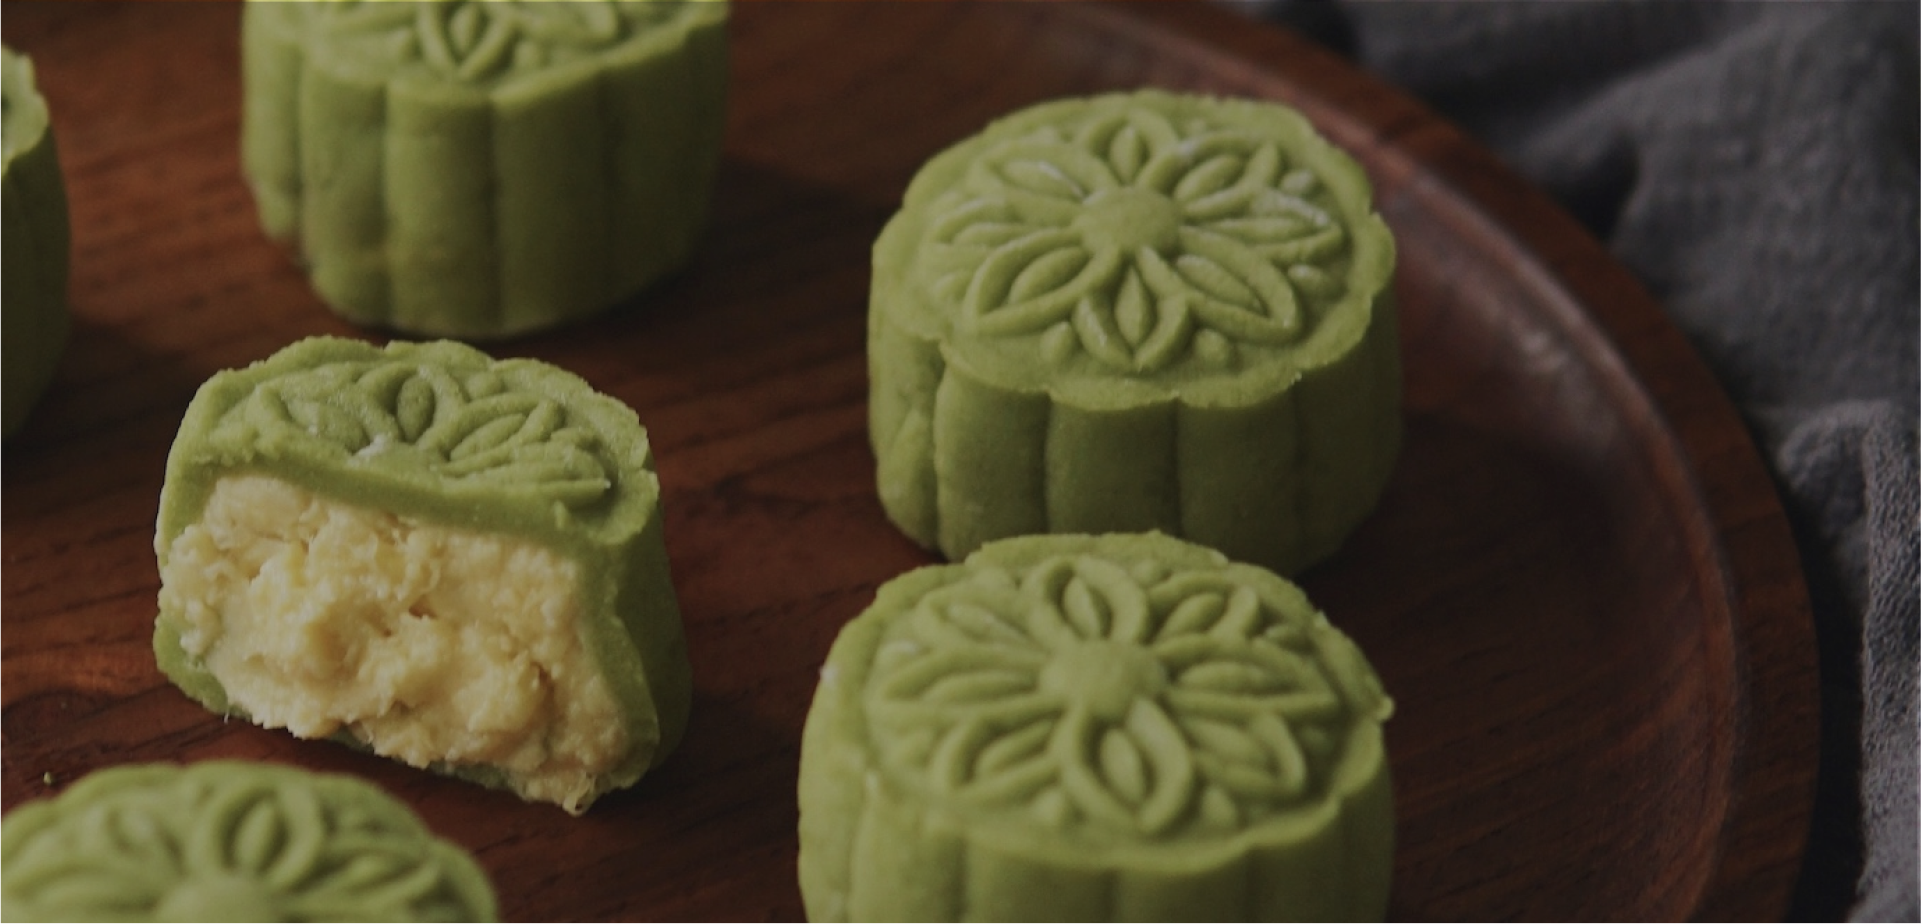
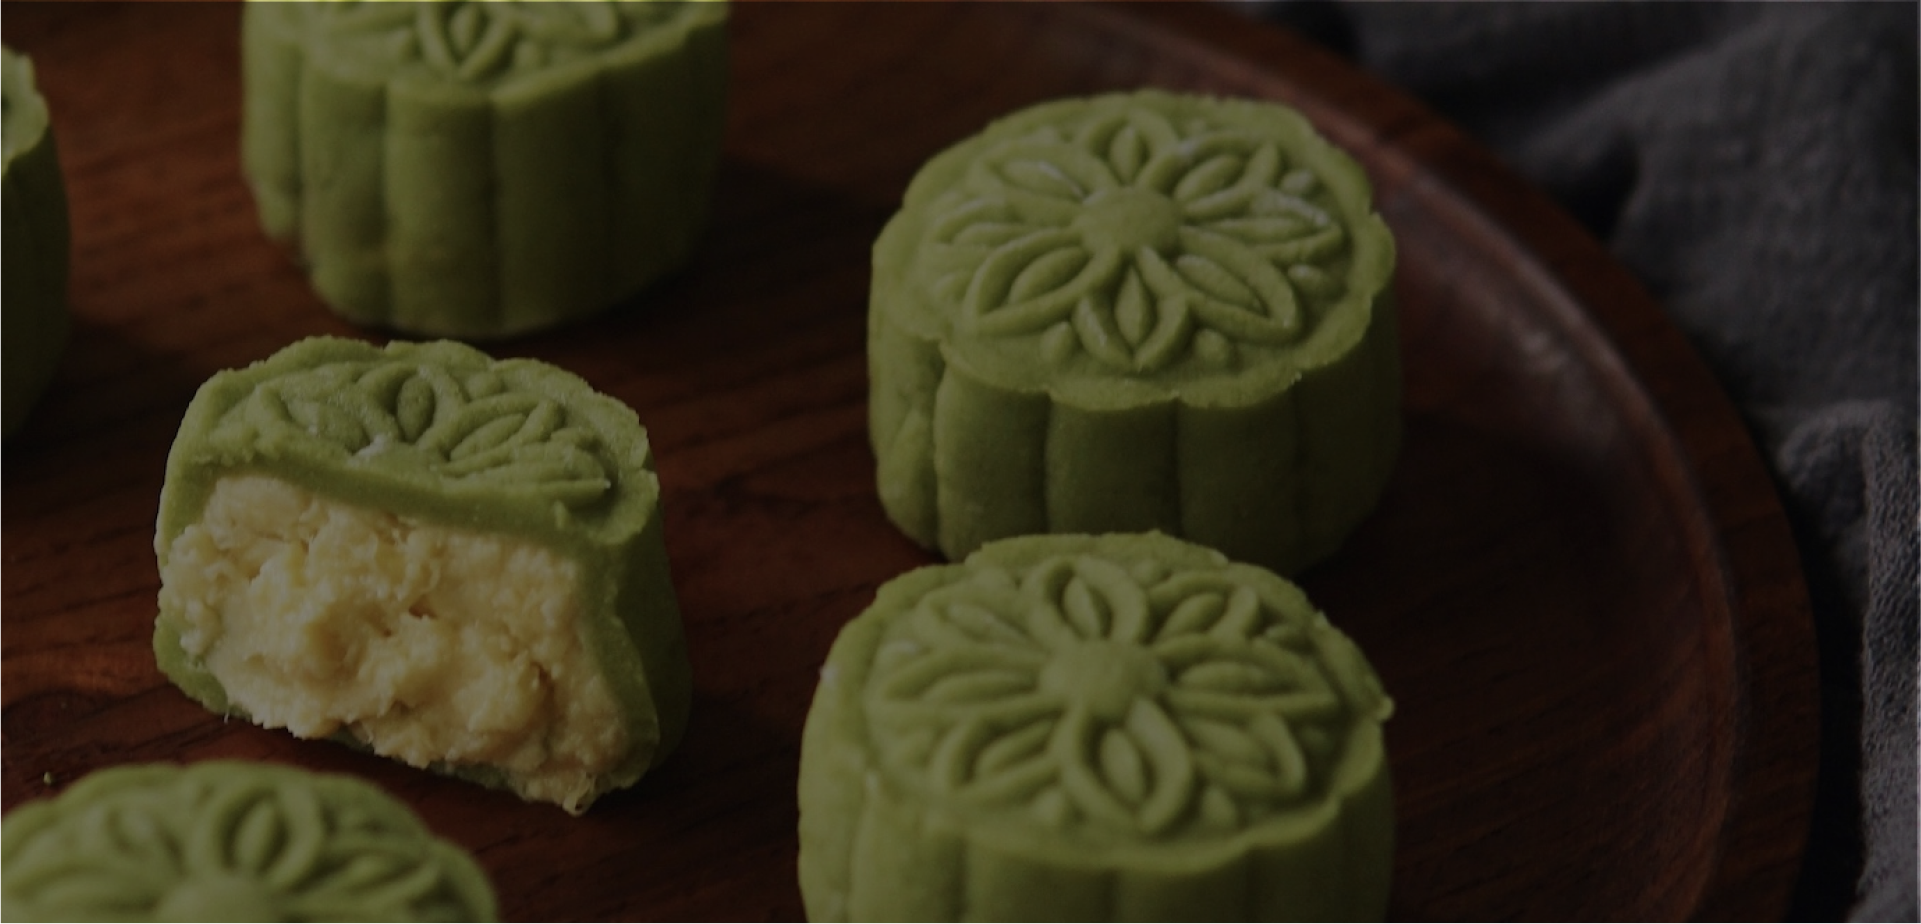
media query changes for productListing and payment
- added readability changes for landing page

- payment verification is 100% vw

- product listing filled more space

diff --git a/IAT_339_P02_Milestone_2/index.html b/IAT_339_P02_Milestone_2/index.html
@@ -34,7 +34,12 @@
 
     <section class="landingHero">
       <div class="hero1">
-        <img src="img/landing11920x924.png" alt="" >
+        <picture>
+          <source media="(min-width:1210px)" srcset="img/landing11920x924.png" draggable="false" alt="Black sesame snow skin mooncakes on a black background">
+          <source media="(min-width:200px)" src="img/landingAlt11920x924.png" draggable="false" alt="Black sesame snow skin mooncakes on a black background" >
+          <img src="img/landingAlt11920x924.png" draggable="false" alt="Black sesame snow skin mooncakes on a black background">
+        </picture>
+
         <div class="hero1Content">
           <h2>Mid-Autumn Special Offers</h2>
           <h2>25% off on select items</h2>
@@ -42,7 +47,13 @@
         </div>
       </div>
       <div class="hero2">
-        <img src="img/landing21920x924.png" alt="" >
+
+        <picture>
+          <source media="(min-width:1210px)" srcset="img/landing21920x924.png" draggable="false" alt="Matcha snow skin mooncakes on a laquered wooden plate">
+          <source media="(min-width:200px)" src="img/landingAlt21920x924.png" draggable="false" alt="Matcha snow skin mooncakes on a laquered wooden plate" >
+          <img src="img/landingAlt21920x924.png" alt="Matcha snow skin mooncakes on a laquered wooden plate">
+        </picture>
+
         <div class="hero2Content">
           <h2>Matcha Delight</h2>
           <p>Lorem ipsum dolor sit amet, consectetur adipiscing elit, sed do eiusmod tempor incididunt ut labore et dolore magna aliqua.</p>
@@ -50,7 +61,13 @@
         </div>
       </div>
       <div class="hero3">
-        <img src="img/landing31920x924.png" alt="" >
+
+        <picture>
+          <source media="(min-width:1210px)" srcset="img/landing31920x924.png" draggable="false" alt="Custard snow skin mooncakes on a wooden cutting board">
+          <source media="(min-width:200px)" src="img/landingAlt31920x924.png" draggable="false" alt="Custard snow skin mooncakes on a wooden cutting board" >
+          <img src="img/landingAlt31920x924.png" alt="Custard snow skin mooncakes on a wooden cutting board">
+        </picture>
+
         <div class="hero3Content">
           <h2>Spring Promotion</h2>
           <p>Lorem ipsum dolor sit amet, consectetur adipiscing elit, sed do eiusmod tempor incididunt ut labore et dolore magna aliqua.</p>
@@ -58,7 +75,13 @@
         </div>
       </div>
       <div class="hero4">
-        <img src="img/landing41920x924.png" alt="" >
+
+        <picture>
+          <source media="(min-width:1210px)" srcset="img/landing41920x924.png" draggable="false" alt="Multi-coloured snow skin mooncakes on a teal platter">
+          <source media="(min-width:200px)" src="img/landingAlt41920x924.png" draggable="false" alt="Multi-coloured snow skin mooncakes on a teal platter" >
+          <img src="img/landingAlt41920x924.png" alt="Multi-coloured snow skin mooncakes on a teal platter">
+        </picture>
+
         <div class="hero4Content">
           <h2>About Us</h2>
           <p>Lorem ipsum dolor sit amet, consectetur adipiscing elit, sed do eiusmod tempor incididunt ut labore et dolore magna aliqua.</p>

diff --git a/IAT_339_P02_Milestone_2/css/main.css b/IAT_339_P02_Milestone_2/css/main.css
@@ -84,7 +84,6 @@ li {
   margin-top: 0;
   max-width: 60rem;
   color: #353535;
-
 }
 
 .p-product{
@@ -173,19 +172,20 @@ nav a:hover, nav a:focus {
   width: 10vw;
   padding: 8px;
   margin: 8px 0;
-    cursor: pointer;
+  cursor: pointer;
 }
 
 .defaultButton:hover, .defaultButton:focus {
   background-color: #CC6C9A;
-  border: 3px solid;
-  border-color: #CC6C9A;
+  border: 2px solid;
+  border-color: transparent;
+  border-radius: 0.5rem;
 
   color: #ffffff;
   width: 10vw;
   padding: 8px;
   margin: 8px 0;
-  transition-duration: 0.5s;
+  transition-duration: 0.3s;
 }
 
 .navSubmit{
@@ -543,7 +543,7 @@ justify-content: space-around;
 */
 .productListingHero{
   padding-top: 3vw;
-  width: 100vw;
+  width: 100%;
 }
 .productNavLink{
   color: #353535;
@@ -640,13 +640,13 @@ justify-content: space-around;
    .defaultButton, .navSubmit, .navReset{
      font-size: 2vw;
      font-weight: bold;
-     width: 10rem;
+     width: 20vw;
    }
 
    .defaultButton:hover, .defaultButton:focus, .navSubmit:hover, .navSubmit:focus, .navReset:hover, .navReset:focus{
      font-size: 2vw;
      font-weight: bold;
-     width: 10rem;
+     width: 20vw;
    }
 
    .aboutCopy{
@@ -654,15 +654,66 @@ justify-content: space-around;
        font-size: 2vw;
    }
  }
+ @media (width > 1210px) {
+   .hero2Content, .hero3Content, .hero4Content  {
+    background-color: rgba(0,0,0,0.4);
+    padding: 1vw;
+    padding-right: 5vw;
+    border-radius: 1vw;
+  }
+ }
+ @media (width < 923px){
 
- @media (width > 1210px){
-    .hero2Content , .hero3Content , .hero4Content  {
+   .products{
+     margin-top: 5rem;
+     padding-left: 10vw;
+     padding-right: 10vw;
+     display: flex;
+     flex-wrap: wrap;
+     justify-content: center;
+   }
 
-     background-color: rgba(0,0,0,0.4);
-     padding-left: 2vw;
-     padding-right: 2vw;
+ }
+ @media (width < 905px){
+
+   .checkoutCart{
+     margin-top: 2rem;
+     padding-left: 2rem;
+     padding-right: 2rem;
+     padding-bottom: 2rem;
+     width: 100vw;
+     border: 1px solid #727272;
+     border-color: #727272;
+   }
+
+   .checkoutCart p{
+     font-size: 4vw;
    }
  }
+
+ @media (width < 565px){
+
+   #paymentFormInput{
+     width: 80vw;
+     padding: 10px;
+     margin: 8px 0;
+   }
+
+   .checkoutCart{
+     margin-top: 2rem;
+     padding-left: 2rem;
+     padding-right: 2rem;
+     padding-bottom: 2rem;
+     width: 100vw;
+     border: 1px solid #727272;
+     border-color: #727272;
+   }
+
+   .checkoutCart p{
+     font-size: 4vw;
+   }
+ }
+
 /* typefaces --------------------------------------------------------------------------------*/
 @font-face {
     font-family: 'PP Right Didone - Spatial Fine';

diff --git a/IAT_339_P02_Milestone_2/productListing.html b/IAT_339_P02_Milestone_2/productListing.html
@@ -99,8 +99,10 @@
 
   <footer>
     <section class="footer">
-      <h1 class='logotype'>LUNA</h1>
       <section class="footerContent">
+        <div class="footerLogo">
+          <h1 class='logotype'>LUNA</h1>
+        </div>
         <div class="footerSocials">
           <p>Subscribe to our newsletter:</p>
           <label for="emailInput"></label>

diff --git a/IAT_339_P02_Milestone_2/payment.html b/IAT_339_P02_Milestone_2/payment.html
@@ -149,8 +149,10 @@
 
 <footer>
   <section class="footer">
-    <h1 class='logotype'>LUNA</h1>
     <section class="footerContent">
+      <div class="footerLogo">
+        <h1 class='logotype'>LUNA</h1>
+      </div>
       <div class="footerSocials">
         <p>Subscribe to our newsletter:</p>
         <label for="emailInput"></label>
